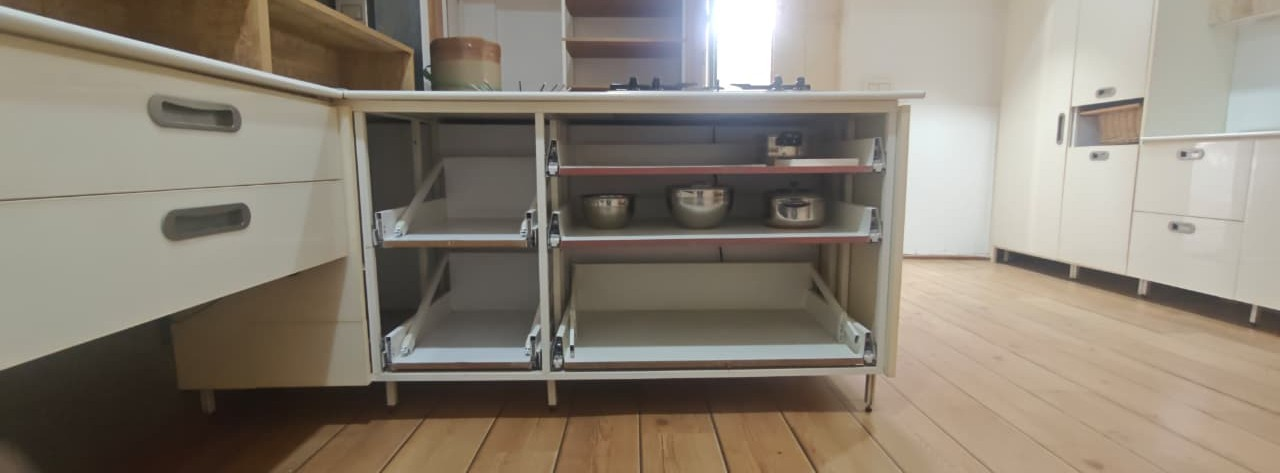
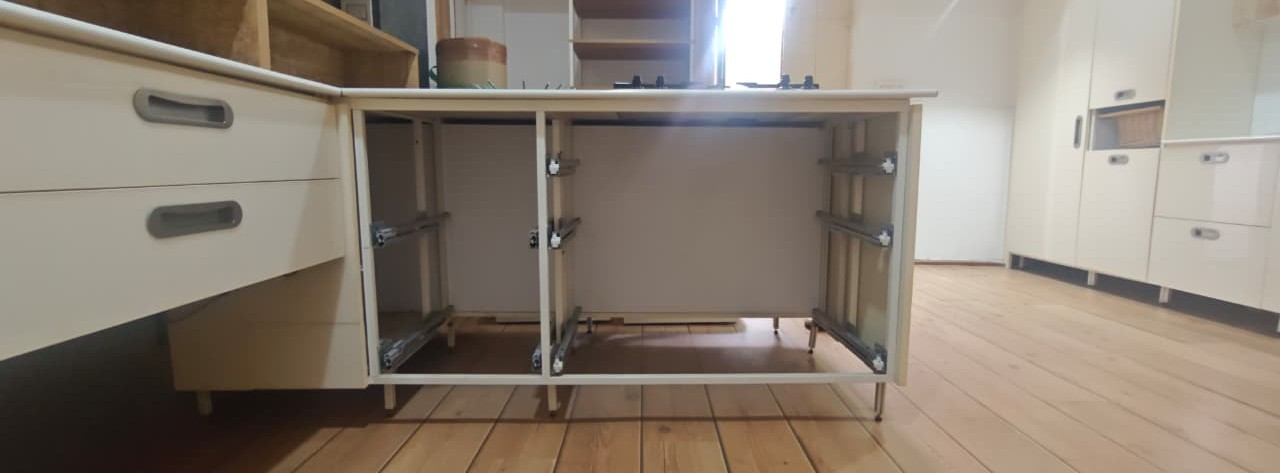
added 3rd layer

diff --git a/script.js b/script.js
@@ -1,4 +1,5 @@
 const front = document.querySelector(".front");
+const middle = document.querySelector(".middle");
 const inside = document.querySelector(".inside");
 console.log(inside);
 
@@ -8,9 +9,17 @@ front.addEventListener("click", () => {
     front.style.display = "none";
   }, 1000);
 });
+middle.addEventListener("click", () => {
+  middle.classList.add("disappear");
+  setTimeout(() => {
+    middle.style.display = "none";
+  }, 1000);
+});
 
 inside.addEventListener("click", () => {
   console.log("first");
+  middle.classList.remove("disappear");
+  middle.style.display = "block";
   front.classList.remove("disappear");
-    front.style.display = "block";
+  front.style.display = "block";
 });

diff --git a/style.css b/style.css
@@ -102,6 +102,8 @@ main{
   position: relative;
 }
 
+.inside,
+.middle,
 .front{
   position: absolute;
   inset: 0;
@@ -110,13 +112,13 @@ main{
   
 }
 
+.middle.disappear,
 .front.disappear{
   opacity: 0;
 }
 
 .click-front{
-  transform: translate(40%, -5vh);  
+  transform: translate(35%, 35vh);  
   font-size: 2rem;
-  bottom: 20%;
   color: var(--secondary-font-clr);
 }

diff --git a/index.html b/index.html
@@ -12,6 +12,7 @@
         <header></header>
         <main>
             <img class="inside" src="inside.jpg" alt="">
+            <img class="middle" src="middle-face.png" alt="">
             <div class="front">
                 <img src="front-face.png" alt="">
                 
